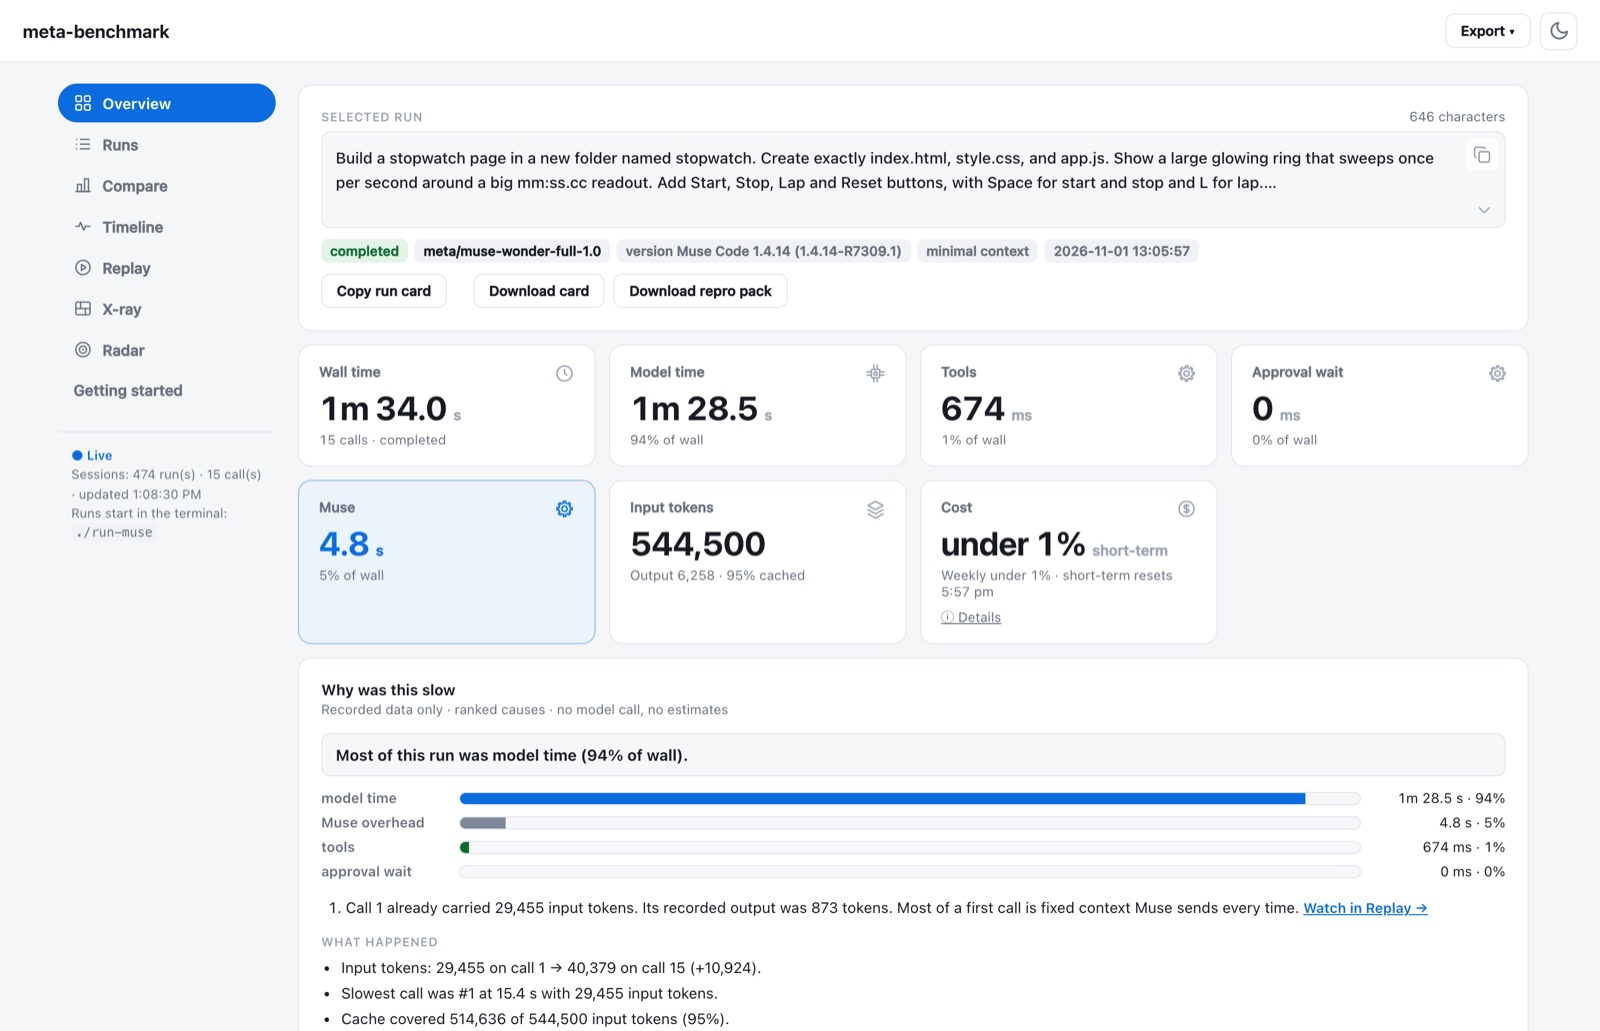
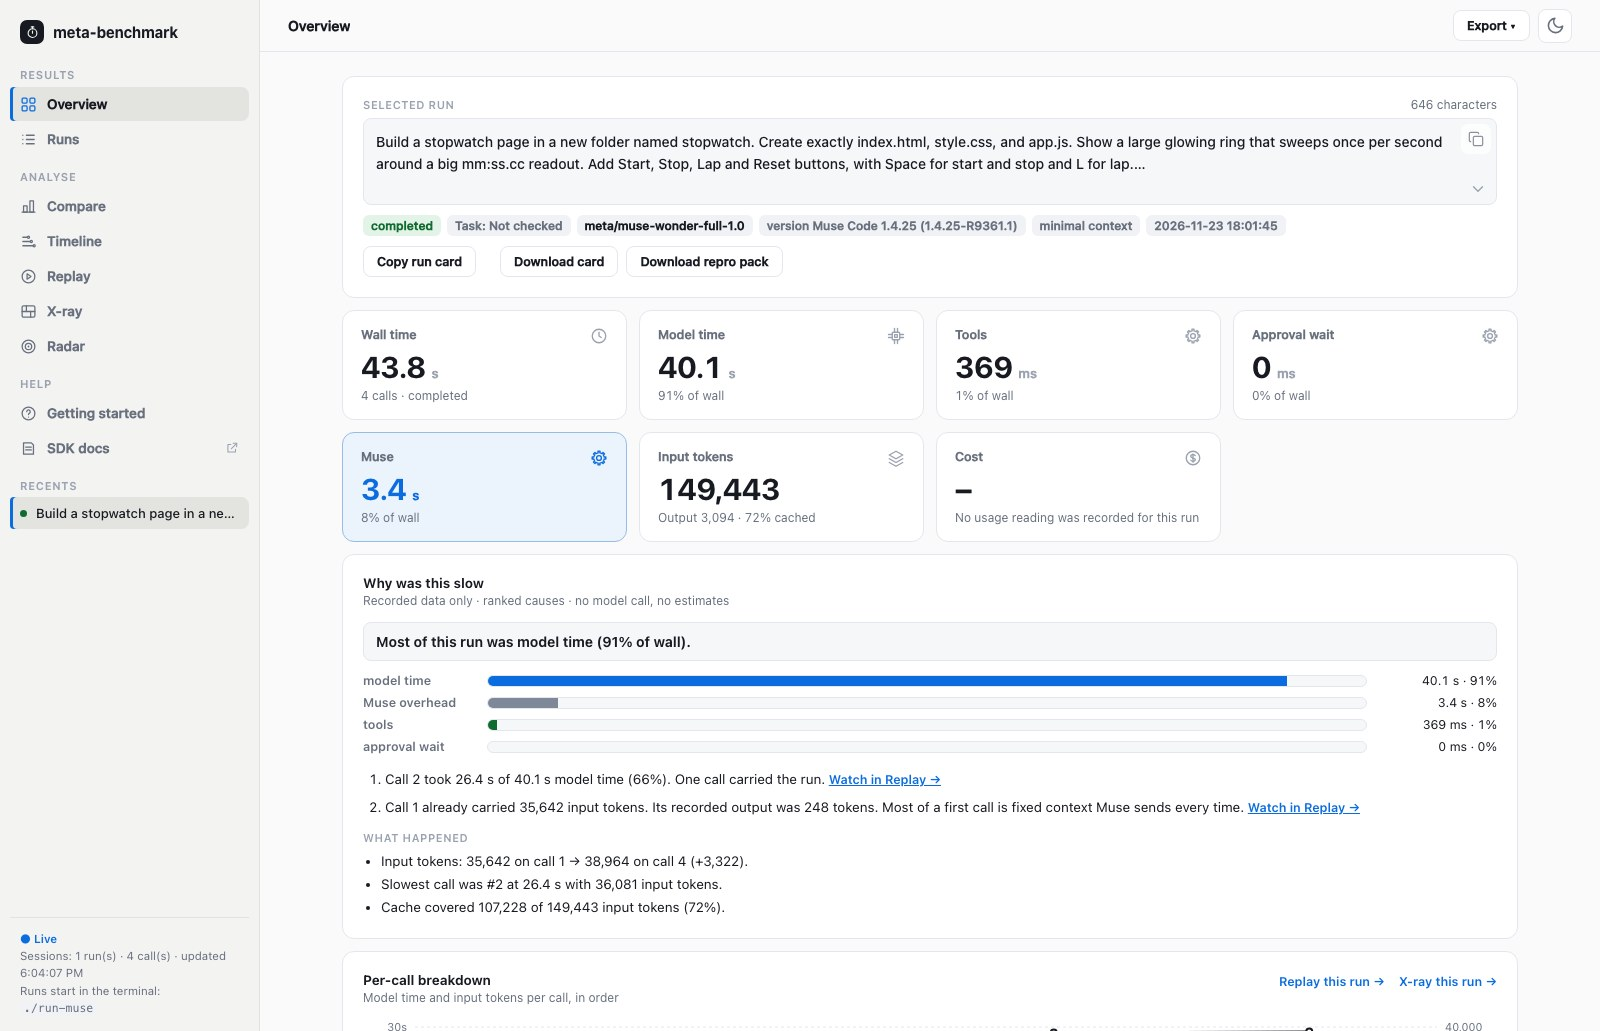
Retake screenshots on the current UI and refresh README example numbers

diff --git a/README.md b/README.md
@@ -16,7 +16,7 @@ Start with the [user guide](docs/user-guide.md) for an offline first run. Use th
 
 <picture>
   <source media="(prefers-color-scheme: dark)" srcset="docs/images/overview-dark.jpg">
-  <img src="docs/images/overview-light.jpg" alt="The Overview page for one recorded run: time split cards, plan usage, and a ranked explanation of where the time went">
+  <img src="docs/images/overview-light.jpg" alt="The Overview page for one recorded run: time split cards, input tokens, and a ranked explanation of where the time went">
 </picture>
 
 ## Requirements
@@ -52,15 +52,15 @@ The prompt is built to be checkable in one pass:
 - **Hard limits.** No external URLs or libraries. It runs from the filesystem.
 - **A self-check.** The agent runs `node --check` and reports the result.
 
-`--minimal` suppresses reminders and foreign personal context. Repeats still vary. It doesn't make the request much smaller. Muse's own context still rides along: call 1 of this run carried 29,455 input tokens.
+`--minimal` suppresses reminders and foreign personal context. Repeats still vary. It doesn't make the request much smaller. Muse's own context still rides along: call 1 of this run carried 35,642 input tokens.
 
-The terminal prints each model call as it finishes, then the reply with one summary line. This example is from Muse Code 1.4.14, recorded on 2026-11-01:
+The terminal prints each model call as it finishes, then the reply with one summary line. This example is from Muse Code 1.4.25, recorded on 2026-11-23:
 
 ```text
-[meta/muse-wonder-full-1.0] wall 93969 ms · model 88464 ms · in 544500 · out 6258 · 15 call(s) · Muse plan: used under 1% of short-term limit (0→0%), under 1% of weekly limit (58→58%) · completed
+[meta/muse-wonder-full-1.0] wall 43840 ms · model 40103 ms · in 149443 · out 3094 · 4 call(s) · completed
 ```
 
-Your numbers will differ. The split is the point.
+That login used an API key, so the line has no plan usage. On a subscription login it also shows how far the run moved your plan limits. Your numbers will differ. The split is the point.
 
 ### 3. Read it on the page
 
@@ -79,14 +79,14 @@ Overview, above, gives the time split and a plain-words account of where the tim
 
 <picture>
   <source media="(prefers-color-scheme: dark)" srcset="docs/images/replay-dark.jpg">
-  <img src="docs/images/replay-light.jpg" alt="Replay paused mid-run: model call 8 in flight, 7 of 15 calls landed">
+  <img src="docs/images/replay-light.jpg" alt="Replay paused mid-run: model call 3 in flight, 2 of 4 calls landed">
 </picture>
 
-**X-ray** shows what Muse sent on each call. Here the prompt was 650 bytes of an 85,386 byte first request.
+**X-ray** shows what Muse sent on each call. Here the prompt was 650 bytes of a 108,467 byte first request.
 
 <picture>
   <source media="(prefers-color-scheme: dark)" srcset="docs/images/xray-dark.jpg">
-  <img src="docs/images/xray-light.jpg" alt="X-ray: request bytes per call split into system prompt, run context, and conversation, growing over 15 calls">
+  <img src="docs/images/xray-light.jpg" alt="X-ray: request bytes per call split into system prompt, run context, conversation and tool results, growing over 4 calls">
 </picture>
 
 Then check the work itself. In this example the generated folder sits in the run's own workspace, under `muse-runs/<run id>/workspace/stopwatch/`, so nothing in the repo changes. Open its `index.html`, press Space, then L a few times. The fastest lap should turn green and the slowest red.
@@ -97,7 +97,7 @@ Completed means the process ended cleanly. It doesn't mean the stopwatch works, 
 
 ### 4. Run it again
 
-One run is an anecdote. Two recorded runs of this exact prompt, eight minutes apart, used the same model and the same Muse version. The first run took 6 calls and 60.9 s. The second took 15 calls and 94.0 s, 54% longer for the same work. Neither number is the answer. The pattern across repeats is.
+One run is an anecdote. Two recorded runs of this exact prompt on `muse-wonder-full-1.0` took 15 calls and 94.0 s (Muse Code 1.4.14), then 4 calls and 43.8 s (Muse Code 1.4.25). The Muse versions differ, so this is not a clean comparison. It does show how far the same work can swing. Neither number is the answer. The pattern across repeats is.
 
 ```sh
 ./run-muse --minimal "$PROMPT"
@@ -136,6 +136,13 @@ Input and output count the tokens recorded by the harness. Last-call and whole-r
 ### Cost
 
 Muse subscription runs show movement in plan limits when recorded. Paid routes can show a reported or computed USD cost. Codex cost stays unknown. [Cost and allowance](docs/glossary.md#cost-and-allowance)
+
+<picture>
+  <source media="(prefers-color-scheme: dark)" srcset="docs/images/overview-api-dark.jpg">
+  <img src="docs/images/overview-api-light.jpg" alt="Overview for a Claude Code run on Meta's API: the Cost card reads $0.1603 at Meta list, and Tools, Approval wait and Muse show dashes">
+</picture>
+
+On an API route the Cost card shows dollars, as above. The dashes are expected. Claude Code does not report tool, approval or per-call model time.
 
 ### Compare and medians
 
